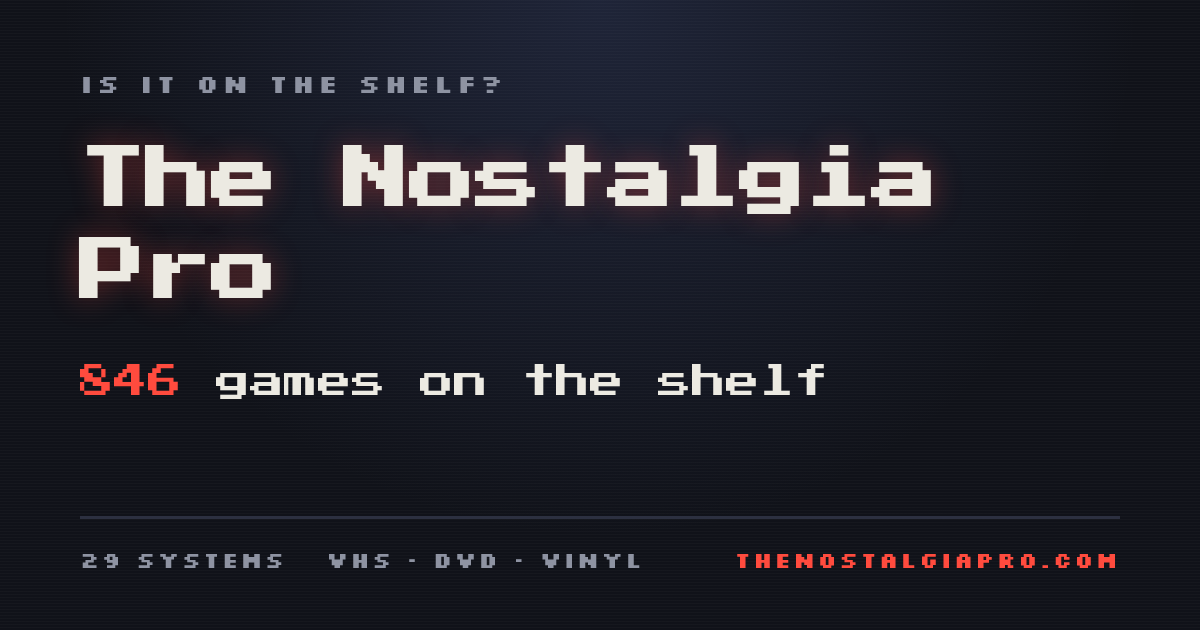
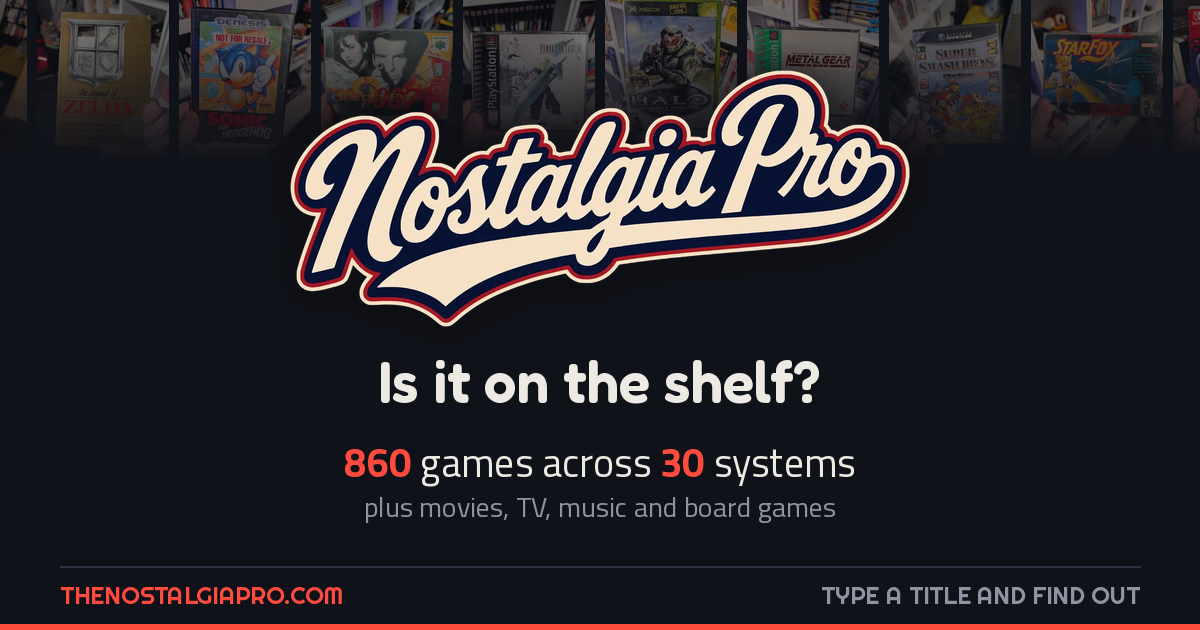
Redraw og-image.png from the data (860 games, 30 systems); tools/make_og_image.py, run by sync_counts; keep old card as og-image-846-old.png

diff --git a/tools/make_og_image.py b/tools/make_og_image.py
@@ -1,0 +1,125 @@
+#!/usr/bin/env python3
+"""Draw the site's default share image (og-image.png, 1200x630) from the data,
+so the game and system counts on it are never out of date.
+
+    python3 tools/make_og_image.py
+
+It uses the site's own fonts (fonts/*.woff2), the Nostalgia Pro wordmark and
+the homepage strip covers. sync_counts.py runs it, and it only rewrites the
+file when the counts change. Needs Pillow and fontTools (with brotli); if
+they're missing it prints a note and does nothing."""
+import io, json, os, sys
+
+sys.path.insert(0, os.path.dirname(os.path.abspath(__file__)))
+import sitedata as sd
+
+OUT = "og-image.png"
+STAMP = os.path.join("tools", "data", "og_image_counts.json")
+W, H = 1200, 630
+BG, TEXT, DIM, HOT, LINE = "#101219", "#eceae2", "#8e93a2", "#ff4b3e", "#2c3040"
+COVERS = ["super-mario-bros-3-nes", "legend-of-zelda-nes",
+          "sonic-the-hedgehog-2-not-for-resale-sega-genesis", "goldeneye-007-nintendo-64",
+          "final-fantasy-vii-playstation-1", "halo-combat-evolved-xbox",
+          "metal-gear-solid-greatest-hits-playstation-1", "super-smash-bros-melee-gamecube",
+          "star-fox-snes", "metroid-dread-nintendo-switch"]
+
+
+def counts():
+    systems, games = sd.load_shelf()
+    return len(games), sum(1 for s in systems if s["games"])
+
+
+def font(name, size, weight=None):
+    from fontTools.ttLib import TTFont
+    from PIL import ImageFont
+    buf = io.BytesIO()
+    t = TTFont(os.path.join(sd.ROOT, "fonts", name + ".woff2"))
+    t.flavor = None
+    t.save(buf)
+    buf.seek(0)
+    f = ImageFont.truetype(buf, size)
+    if weight:
+        f.set_variation_by_axes([weight])
+    return f
+
+
+def draw(n, ns):
+    from PIL import Image, ImageDraw, ImageFilter
+    img = Image.new("RGB", (W, H), BG)
+
+    # cover strip across the top, fading into the background like the homepage
+    cw, ch, gap = 132, 176, 10
+    x = (W - (len(COVERS) * cw + (len(COVERS) - 1) * gap)) // 2
+    for c in COVERS:
+        p = os.path.join(sd.ROOT, "images", "strip", c + ".webp")
+        if os.path.exists(p):
+            im = Image.open(p).convert("RGB").resize((cw, ch), Image.LANCZOS)
+            img.paste(im, (x, -14))
+        x += cw + gap
+    fade = Image.new("L", (W, H), 0)
+    fd = ImageDraw.Draw(fade)
+    for y in range(H):
+        a = 150 if y < 40 else max(0, min(255, 150 + int((y - 40) * 105 / 120)))
+        fd.line([(0, y), (W, y)], fill=a)
+    img = Image.composite(Image.new("RGB", (W, H), BG), img, fade)
+
+    # the wordmark, with a soft dark halo so it sits on the covers
+    wm = Image.open(os.path.join(sd.ROOT, "images", "np-script.webp")).convert("RGBA")
+    ww = 620
+    wm = wm.resize((ww, round(wm.height * ww / wm.width)), Image.LANCZOS)
+    wx, wy = (W - ww) // 2, 70
+    halo = Image.new("RGBA", (W, H), (0, 0, 0, 0))
+    halo.paste((16, 18, 25, 200), (wx, wy), wm.split()[3])
+    halo = halo.filter(ImageFilter.GaussianBlur(18))
+    img = img.convert("RGBA")
+    img.alpha_composite(halo)
+    img.alpha_composite(wm, (wx, wy))
+    d = ImageDraw.Draw(img)
+
+    def centred(y, parts):
+        widths = [d.textlength(t, font=f) for t, f, _ in parts]
+        x = (W - sum(widths)) / 2
+        for (t, f, col), w in zip(parts, widths):
+            d.text((x, y), t, font=f, fill=col)
+            x += w
+
+    y = wy + wm.height + 18
+    centred(y, [("Is it on the shelf?", font("Fredoka-normal-latin", 58, 600), TEXT)])
+    big = font("TitilliumWeb-700-normal-latin", 40)
+    reg = font("TitilliumWeb-400-normal-latin", 40)
+    centred(y + 86, [(f"{n:,}", big, HOT), (" games across ", reg, TEXT),
+                     (str(ns), big, HOT), (" systems", reg, TEXT)])
+    centred(y + 140, [("plus movies, TV, music and board games", font("TitilliumWeb-400-normal-latin", 28), DIM)])
+
+    d.line([(60, H - 64), (W - 60, H - 64)], fill=LINE, width=2)
+    d.rectangle([(0, H - 6), (W, H)], fill=HOT)
+    small = font("Righteous-400-normal-latin", 24)
+    d.text((60, H - 50), "THENOSTALGIAPRO.COM", font=small, fill=HOT)
+    t = "TYPE A TITLE AND FIND OUT"
+    d.text((W - 60 - d.textlength(t, font=small), H - 50), t, font=small, fill=DIM)
+    return img.convert("RGB")
+
+
+def main(force=False):
+    n, ns = counts()
+    stamp = os.path.join(sd.ROOT, STAMP)
+    want = {"games": n, "systems": ns}
+    if not force and os.path.exists(stamp) and json.load(open(stamp)) == want \
+            and os.path.exists(os.path.join(sd.ROOT, OUT)):
+        print(f"make_og_image: already shows {n} games, {ns} systems")
+        return False
+    try:
+        img = draw(n, ns)
+    except ImportError as e:
+        print(f"make_og_image: skipped ({e.name} isn't installed; pip install pillow fonttools brotli)")
+        return False
+    img.save(os.path.join(sd.ROOT, OUT), optimize=True)
+    with open(stamp, "w") as f:
+        json.dump(want, f)
+        f.write("\n")
+    print(f"make_og_image: drew {OUT} with {n} games, {ns} systems")
+    return True
+
+
+if __name__ == "__main__":
+    main(force="--force" in sys.argv)

diff --git a/tools/sync_counts.py b/tools/sync_counts.py
@@ -5,7 +5,8 @@ tags, titles and no-JavaScript fallbacks, so every count comes from the data
 
     python3 tools/sync_counts.py
 
-build_game_pages.py runs it at the end. Safe to run any time."""
+build_game_pages.py runs it at the end, and it redraws og-image.png
+(make_og_image.py) when the counts change. Safe to run any time."""
 import os, re, sys
 
 sys.path.insert(0, os.path.dirname(os.path.abspath(__file__)))
@@ -54,6 +55,8 @@ def main():
             open(p, "w", encoding="utf-8").write(out)
             changed.append(rel)
     print(f"sync_counts: {n} games, {ns} systems" + (f"; updated {', '.join(changed)}" if changed else ""))
+    import make_og_image   # the share image carries the same counts
+    make_og_image.main()
 
 
 def other_pages():

diff --git a/tools/README.md b/tools/README.md
@@ -446,6 +446,11 @@ always newest first, so it needs no updating. Shorts count as uploads too.
 * `sync_counts.py`: writes the shelf's game and system counts into the
   hand-made pages' titles, share tags and fallbacks. `build_game_pages.py`
   runs it at the end.
+* `make_og_image.py`: draws the default share image `og-image.png`
+  (1200x630) with the counts from the data. `sync_counts.py` runs it and it
+  only redraws when the counts change (`--force` to redraw anyway). Needs
+  Pillow, fontTools and brotli. The old 846 card is kept as
+  `og-image-846-old.png`.
 * `fetch_video_dates.py`: upload dates for the ASMR shorts
   (`tools/data/video_dates.json`), used by the game pages' structured data.
   Re-run when new shorts are added to `VIDEOS`, then `build_game_pages.py`.
